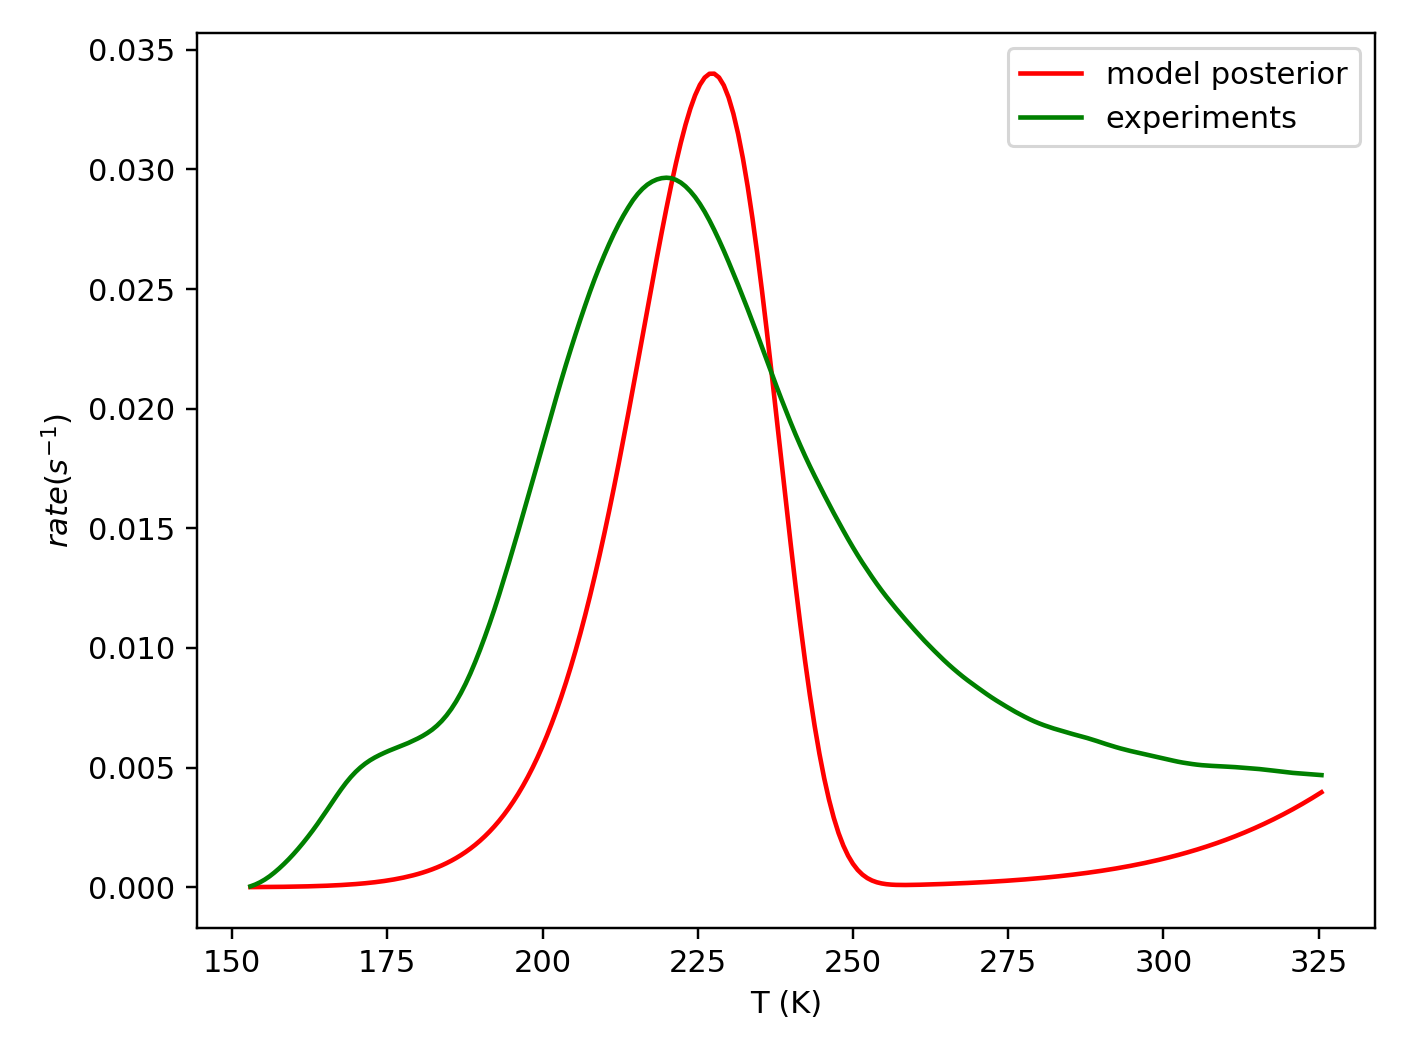
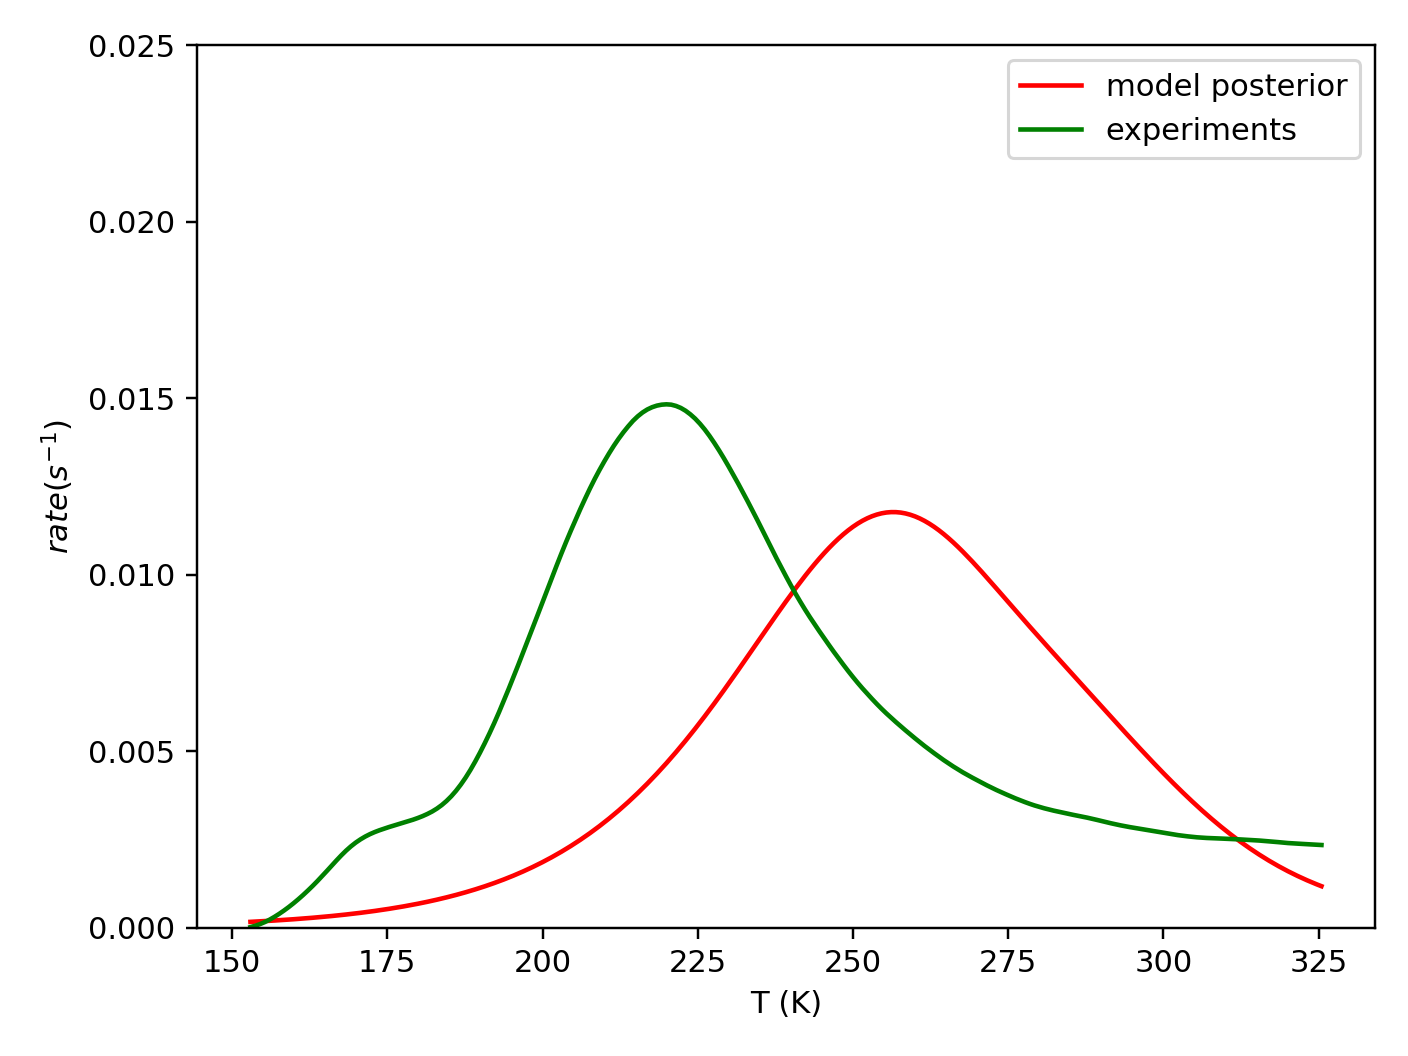
likelihood update
Likelihood is four dimensional from four temperature points along the experimental peak. The posterior is exactly what to expect from a Bayesian update.  That is, the posterior is a mixture of the prior, a peak at a higher temperature, and the experimental update, a peak at a lower temperature.  The posterior model is in between the two.

diff --git a/run_me.py b/run_me.py
@@ -103,16 +103,18 @@ class ip:
             [likelihood_current_location, rate_tot_current_location] = self.likelihood(samples[i-1,:])
             accept_pro = (likelihood_proposal*prior_proposal)/(likelihood_current_location*prior_current_location) ###QUESTION: Is "pro" for probability of acceptance?
             if accept_pro> np.random.uniform():  #TODO: keep a log of the accept and reject. If the reject ratio is >90% or some other such number, warn the user.
-                print('accept')
-                print(rate_tot_proposal)
+                if self.verbose:
+                  print('accept')
+                  print(rate_tot_proposal)
                 samples[i,:] = proposal_sample
                 rate_tot_array[i,:] = rate_tot_proposal
                 posteriors_un_normed_vec[i] = likelihood_proposal*prior_proposal
                 likelihoods_vec[i] = likelihood_proposal
                 priors_vec[i] = prior_proposal
             else:
-                print('reject')
-                print(rate_tot_current_location)
+                if self.verbose:
+                  print('reject')
+                  print(rate_tot_current_location)
                 samples[i,:] = samples[i-1,:]
                 rate_tot_array[i,:] = rate_tot_current_location
                 posteriors_un_normed_vec[i] = likelihood_current_location*prior_current_location
@@ -140,7 +142,7 @@ class ip:
         rate = tprequation(tpr_theta, self.times, *sample_list, self.beta_dTdt,self.start_T)
         rate_tot = -np.sum(rate, axis=0)
         #intermediate_metric = np.mean(np.square(rate_tot - self.experiment) / np.square(self.errors ))
-        temp_points = np.array([91])
+        temp_points = np.array([0,49,99,149]) #range(225)
         probability_metric = multivariate_normal.pdf(x=np.log10(rate_tot[temp_points]),mean=np.log10(self.experiment[temp_points]),cov=self.errors[temp_points])
         if self.verbose: print('likelihood probability',probability_metric,'log10(rate_tot)',np.log10(rate_tot[temp_points]), 'log10(experiment)', np.log10(self.experiment[temp_points]), 'error', self.errors[temp_points])
         return probability_metric, rate_tot
@@ -161,7 +163,8 @@ post_mean_list = list(post_mean) #converting to list so can use list expansion i
 #rate_tot = -np.sum(rate, axis=0)
 
 fig0, ax0 = plt.subplots()
-print(np.mean(rate_tot_array,axis = 0))
+if self.verbose:
+  print(np.mean(rate_tot_array,axis = 0))
 ax0.plot(np.array(experiments_df['AcH - T']),np.mean(rate_tot_array,axis = 0), 'r')
 ax0.plot(np.array(experiments_df['AcH - T']),np.array(experiments_df['AcHBackgroundSubtracted'])/2000,'g')
 ax0.set_ylim([0.00, 0.025])
@@ -170,7 +173,9 @@ ax0.set_ylabel(r'$rate (s^{-1})$')
 ax0.legend(['model posterior', 'experiments'])
 fig0.tight_layout()
 fig0.savefig('tprposterior.png', dpi=220)
-
+posterior_df = pd.DataFrame(samples,columns=[UserInput.parameterNamesAndMathTypeExpressionsDict[x] for x in UserInput.parameterNamesList])
+pd.plotting.scatter_matrix(posterior_df)
+plt.savefig('scatter_matrix_posterior.png',dpi=220)
 #######Below function and codee makes the Histograms for each parameter#####
 
 def sampledParameterHistogramMaker(parameterName,parameterNamesAndMathTypeExpressionsDict, sampledParameterFiguresDictionary, sampledParameterAxesDictionary):

diff --git a/UserInput_ODE_KIN_BAYES_SG_EW.py b/UserInput_ODE_KIN_BAYES_SG_EW.py
@@ -22,7 +22,7 @@ initial_concentrations_array = [0.5, 0.5]
 
 
 #####Bayesian Probability Parameters#####
-verbose = True
+verbose = False
 mu_prior = np.array([41.5, 41.5, 13.0, 13.0, 0.1, 0.1]) # Ea1_mean, Ea2_mean, log_A1_mean, log_A2_mean, gamma_1_mean, gamma_2_mean
 cov_prior = np.array([[200.0, 0., 0., 0., 0., 0.],
                           [0., 200.0, 0., 0., 0., 0.],
@@ -35,7 +35,7 @@ cov_prior = np.array([[200.0, 0., 0., 0., 0., 0.],
 						  
 ######MCMC settings:#####
 mcmc = True 
-mcmc_length = 2000
+mcmc_length = 10000
 mcmc_burn_in = 500 
 
 ######gridSamplingSettings#####
